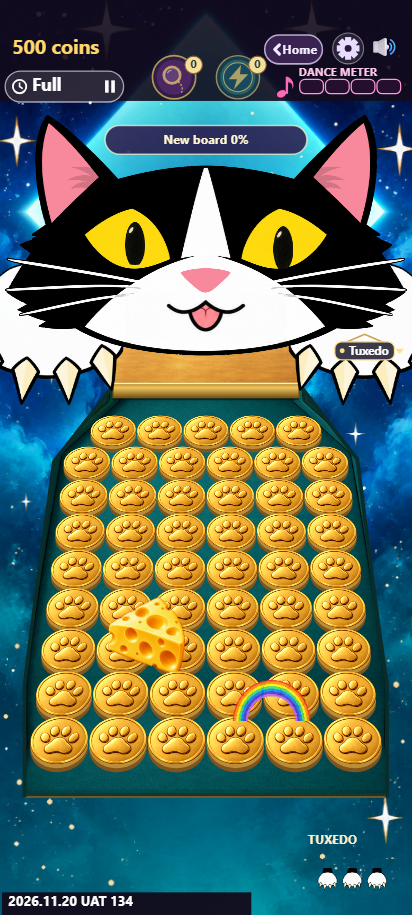
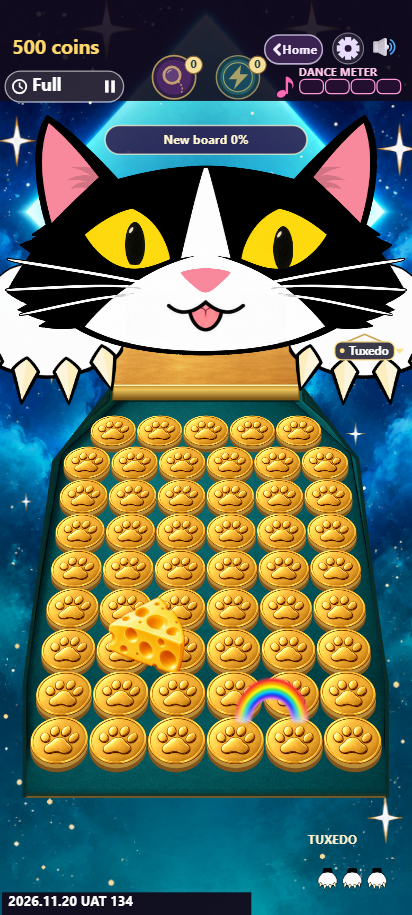
CP-105 Restore original rainbow glow

Changed region(s): [[0.2621, 0.3978, 0.7282, 0.459], [0.5534, 0.7344, 0.7573, 0.7956]]

diff --git a/tickets/CP-105.md b/tickets/CP-105.md
@@ -1,10 +1,10 @@
 # CP-105 New prizes: art
 
-## Final art · approved after rainbow correction
+## Final art · original rainbow glow restored
 
 [Prize sheet at board size and enlarged](../work/cp105-prizes/review-2/sheet.png) · [Collections flowers and vase study](../work/cp105-prizes/review-2/collections-flowers.png) · [Diamond twinkle](../work/cp105-prizes/review-2/diamond-twinkle-preview.gif)
 
-The eleven revisions are in `work/cp105-prizes/review-2`. Jenny approved the second pass with one final rainbow correction. The rainbow now uses a true semicircle and seven equally spaced, concentric bands in the same compact width. Its translucent light blends from red on the outside through orange, yellow, green, blue and indigo to violet on the inside. The owl, oyster, balloon dog, diamond and six flowers use more realistic forms and materials. The sheet also shows the six picks from the first pass.
+The eleven revisions are in `work/cp105-prizes/review-2`. The rainbow uses the original transparent image from the chat preview, resized proportionally to the prize canvas. It retains the soft glow and spectrum colours from the reference Jenny selected. The owl, oyster, balloon dog, diamond and six flowers use more realistic forms and materials. The sheet also shows the six picks from the first pass.
 
 The board flowers have short cut stems. The six matching 128 × 208 Collections sprites in `collections/` extend those stems while keeping the blooms at the same scale and light. The vase study shows how they can fan out together.
 
